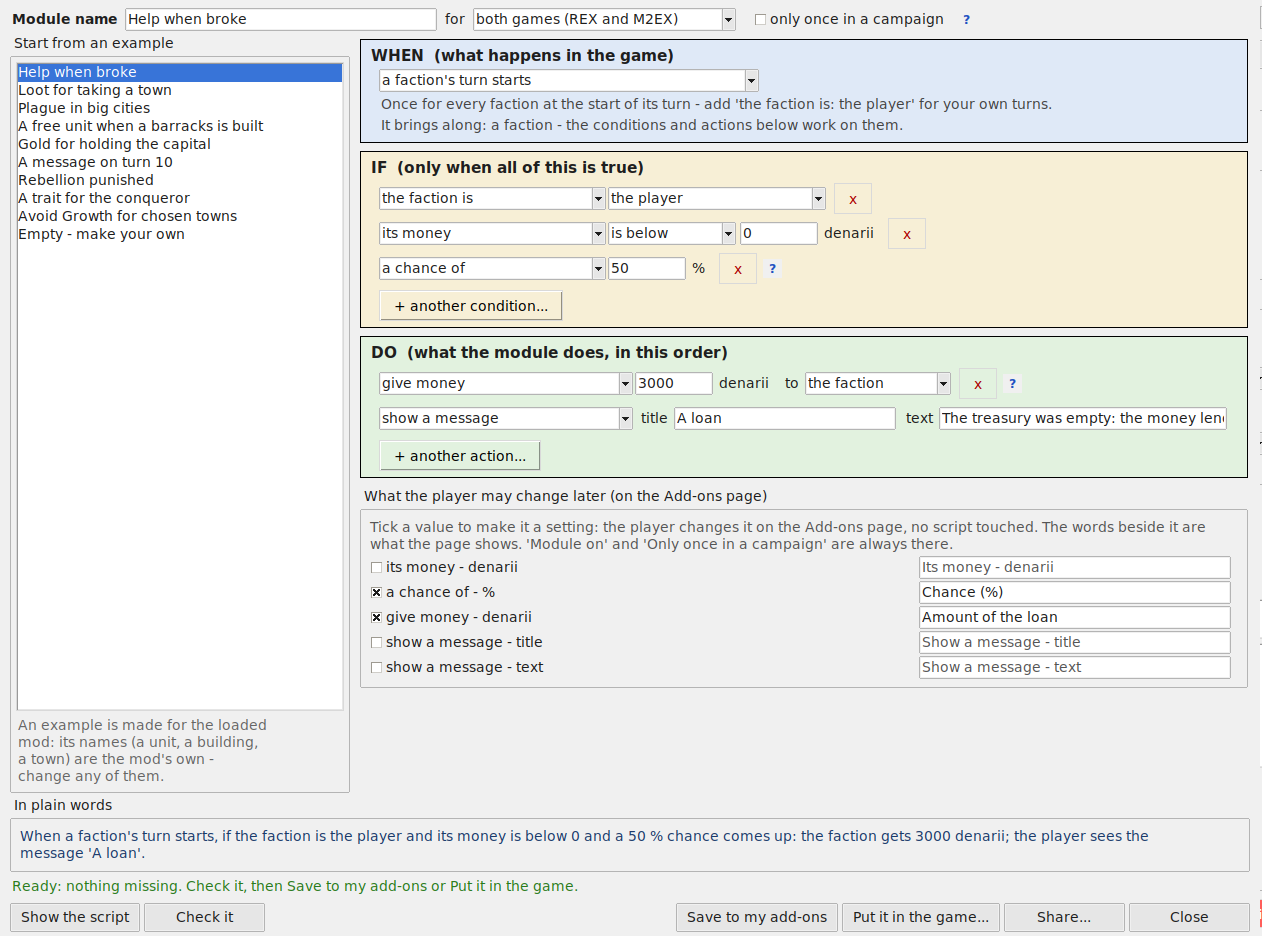
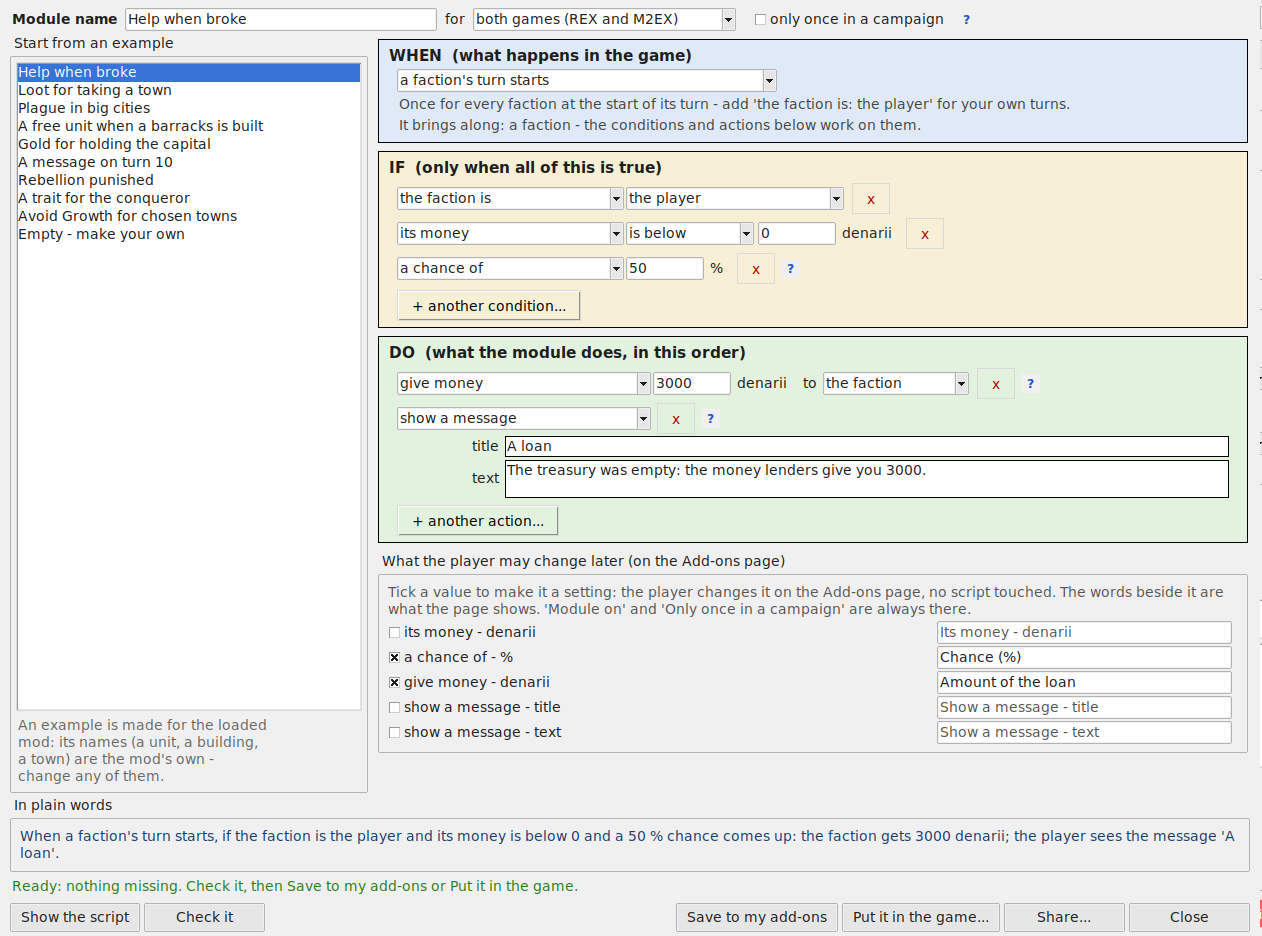
Module builder: no text cut at the window's edge

diff --git a/campaign_editor/gui_modbuilder.py b/campaign_editor/gui_modbuilder.py
@@ -22,6 +22,7 @@ GAMES = [("both", "both games (REX and M2EX)"), ("rome", "Rome: Total War (REX)"
          ("medieval2", "Medieval II (M2EX)")]
 CHOICES = {"op": MB.OPS, "turn_op": MB.TURN_OPS, "who": MB.WHO_IS, "to": MB.TO, "stance": MB.STANCES}
 NUMBERS = ("int", "signed", "percent")
+WIDE = ("text", "long")
 EMPTY = "Empty - make your own"
 MINE = "--- my modules ---"
 HOW = ("A module is a small script the engine runs during the campaign: WHEN something happens, IF the conditions "
@@ -79,10 +80,8 @@ class ModuleBuilder(tk.Toplevel):
         low.pack(fill="x")
         pl = ttk.LabelFrame(low, text=" In plain words ", padding=6)
         pl.pack(fill="x")
-        self.lbl_plain = ttk.Label(pl, wraplength=1150, justify="left", foreground="#1d3b6a", font=("", 10))
-        self.lbl_plain.pack(anchor="w")
-        self.lbl_bad = ttk.Label(low, wraplength=1180, justify="left")
-        self.lbl_bad.pack(anchor="w", pady=(4, 0))
+        self.lbl_plain = wrapping(ttk.Label(pl, justify="left", foreground="#1d3b6a", font=("", 10)))
+        self.lbl_bad = wrapping(ttk.Label(low, justify="left"), pady=(4, 0))
         bar = ttk.Frame(low)
         bar.pack(fill="x", pady=(6, 0))
         ttk.Button(bar, text="Show the script", command=self.show_script).pack(side="left")
@@ -99,6 +98,8 @@ class ModuleBuilder(tk.Toplevel):
     def fill_list(self):
         self.entries = []
         self.lb.delete(0, "end")
+        titles = [r["title"] for r in MB.EXAMPLES] + [r.get("title") or a.title for a, r in MB.my_modules()]
+        self.lb.configure(width=max([36] + [len(t) + 2 for t in titles]))
         for r in MB.EXAMPLES:
             self.entries.append(("ex", r))
             self.lb.insert("end", r["title"])
@@ -189,11 +190,11 @@ class ModuleBuilder(tk.Toplevel):
         cb.pack(side="left")
         cb.bind("<<ComboboxSelected>>", lambda e: self.set_when(v.get()))
         if ev:
-            tk.Label(f, text=ev.help[0].upper() + ev.help[1:] + ".", bg=c, fg="#444", wraplength=820,
-                     justify="left").pack(anchor="w", padx=18)
-            tk.Label(f, bg=c, fg="#444", text="It brings along: " + ", ".join(
-                MB.SUBJECT_WORDS[s] for s in ev.subjects) + " - the conditions and actions below work on them.").pack(
-                anchor="w", padx=18, pady=(0, 6))
+            wrapping(tk.Label(f, text=ev.help[0].upper() + ev.help[1:] + ".", bg=c, fg="#444", justify="left",
+                              anchor="w"), padx=18)
+            wrapping(tk.Label(f, bg=c, fg="#444", justify="left", anchor="w", text="It brings along: " + ", ".join(
+                MB.SUBJECT_WORDS[s] for s in ev.subjects) + " - the conditions and actions below work on them."),
+                padx=18, pady=(0, 6))
 
     def _block(self, inner, group):
         f, c = self._frame(inner, group)
@@ -212,12 +213,19 @@ class ModuleBuilder(tk.Toplevel):
                                width=max(len(p.label) for p in parts) - 10)
             pcb.pack(side="left")
             pcb.bind("<<ComboboxSelected>>", lambda e, g=group, n=i, v=pv: self.change_part(g, n, v.get()))
+            wide = []
             for name, kind, label, _ in (part.fields if part else []):
-                self._field(row, c, group, i, it, part, name, kind, label)
+                if kind in WIDE or kind.startswith("names:"):
+                    wide.append((name, kind, label))      # on a line of its own below: no text cut at the edge
+                else:
+                    self._field(row, c, group, i, it, part, name, kind, label)
             tk.Button(row, text="x", relief="flat", bg=c, fg="#a00", activebackground=c, cursor="hand2",
                       command=lambda g=group, n=i: self.remove(g, n)).pack(side="left", padx=6)
             if part and part.help:
                 hint(row, part.help).pack(side="left")
+            for name, kind, label in wide:
+                if self._shown(part, it, name, kind):
+                    self._wide_field(f, c, group, i, it, name, kind, label)
         add = tk.Button(f, text=ADD[group], relief="groove", bg=c, activebackground=c, cursor="hand2")
         add.configure(command=lambda b=add, g=group: self.add_menu(b, g))
         add.pack(anchor="w", padx=18, pady=(4, 6))
@@ -236,9 +244,9 @@ class ModuleBuilder(tk.Toplevel):
         before = bool(label) and kind not in NUMBERS
         if before:
             tk.Label(row, text=label, bg=c, fg="#1e1e1e").pack(side="left", padx=(6, 2))
-        if kind in NUMBERS or kind in ("text", "long"):
+        if kind in NUMBERS:
             v = tk.StringVar(value="" if it.get(name) is None else str(it.get(name)))
-            ttk.Entry(row, textvariable=v, width={"text": 24, "long": 36}.get(kind, 8)).pack(side="left", padx=2)
+            ttk.Entry(row, textvariable=v, width=8).pack(side="left", padx=2)
             v.trace_add("write", lambda *a: self.set_value(group, i, name, kind, v.get()))
         elif kind in CHOICES:
             pairs = CHOICES[kind]
@@ -252,14 +260,23 @@ class ModuleBuilder(tk.Toplevel):
             v = tk.StringVar(value=it.get(name) or "")
             ttk.Combobox(row, textvariable=v, values=self.names_of(what), width=28).pack(side="left", padx=2)
             v.trace_add("write", lambda *a: self.set_value(group, i, name, kind, v.get()))
-        elif kind.startswith("names:"):
-            what = kind.split(":")[1]
-            v = tk.StringVar(value=", ".join(it.get(name) or []))
-            ttk.Entry(row, textvariable=v, width=34).pack(side="left", padx=2)
-            v.trace_add("write", lambda *a: self.set_value(group, i, name, kind, v.get()))
-            ttk.Button(row, text="Pick...", command=lambda: self.pick_many(what, v)).pack(side="left", padx=2)
         if label and not before:
             tk.Label(row, text=label, bg=c, fg="#1e1e1e").pack(side="left", padx=(2, 6))
+
+    def _wide_field(self, f, c, group, i, it, name, kind, label):
+        """A text or a list of names on a line of its own under its row, in a box as wide as the block that grows
+        with what is typed (one line of words: Enter adds none)."""
+        sub = tk.Frame(f, bg=c)
+        sub.pack(anchor="w", fill="x", padx=(46, 18), pady=(0, 3))
+        tk.Label(sub, text=label, bg=c, fg="#1e1e1e", width=8, anchor="e").pack(side="left", padx=(0, 4))
+        names = kind.startswith("names:")
+        now = ", ".join(it.get(name) or []) if names else str(it.get(name) or "")
+        box = GrowingText(sub, now, lambda text: self.set_value(group, i, name, kind, text),
+                          least=2 if kind == "long" else 1)
+        if names:
+            ttk.Button(sub, text="Pick...", command=lambda: self.pick_many(kind.split(":")[1], box)).pack(
+                side="right", padx=(4, 0))
+        box.pack(side="left", fill="x", expand=True)
 
     def _settings(self, inner):
         f = ttk.LabelFrame(inner, text=" What the player may change later (on the Add-ons page) ", padding=6)
@@ -278,7 +295,7 @@ class ModuleBuilder(tk.Toplevel):
             on = tk.BooleanVar(value=path in have)
             lab = tk.StringVar(value=have.get(path) or words[0].upper() + words[1:])
             ttk.Checkbutton(r, variable=on, text=words, width=58).pack(side="left")
-            e = ttk.Entry(r, textvariable=lab, width=34)
+            e = ttk.Entry(r, textvariable=lab, width=max(34, min(60, len(lab.get()) + 4)))
             e.pack(side="left", padx=8)
 
             def toggled(p=path, on=on, lab=lab, e=e):
@@ -577,3 +594,50 @@ def open_builder(app, recipe=None):
     if recipe is not None:
         w.load(recipe, ask=True)
     return w
+
+
+def wrapping(label, **pack):
+    """A label packed across its parent whose words wrap at its own width - never cut at the window's edge."""
+    label.pack(fill="x", anchor="w", **pack)
+    label.bind("<Configure>", lambda e: label.configure(wraplength=max(60, e.width - 8)), add="+")
+    return label
+
+
+class GrowingText(tk.Text):
+    """A box for one line of words that wraps them and grows (up to 5 lines) instead of hiding what does not fit;
+    on_change(text) on every change. get() / set() like a StringVar (pick_many fills it)."""
+
+    def __init__(self, master, text, on_change, least=1):
+        super().__init__(master, height=least, width=40, wrap="word", font="TkDefaultFont", relief="solid", bd=1,
+                         undo=True, highlightthickness=0)
+        self.least, self.on_change = least, on_change
+        self.insert("1.0", text)
+        self.edit_modified(False)
+        self.bind("<<Modified>>", self._changed)
+        self.bind("<Return>", lambda e: "break")
+        self.bind("<KP_Enter>", lambda e: "break")
+        self.bind("<Configure>", lambda e: self._fit())
+
+    def get(self, *a):
+        if a:
+            return super().get(*a)
+        return super().get("1.0", "end-1c").replace("\n", " ")
+
+    def set(self, text):
+        self.delete("1.0", "end")
+        self.insert("1.0", text)
+
+    def _changed(self, e=None):
+        if not self.edit_modified():
+            return
+        self.edit_modified(False)
+        self.on_change(self.get())
+        self._fit()
+
+    def _fit(self):
+        try:
+            n = self.count("1.0", "end", "displaylines")
+            n = n[0] if isinstance(n, tuple) else n
+        except (tk.TclError, TypeError, IndexError):
+            return
+        self.configure(height=max(self.least, min(5, n or 1)))
